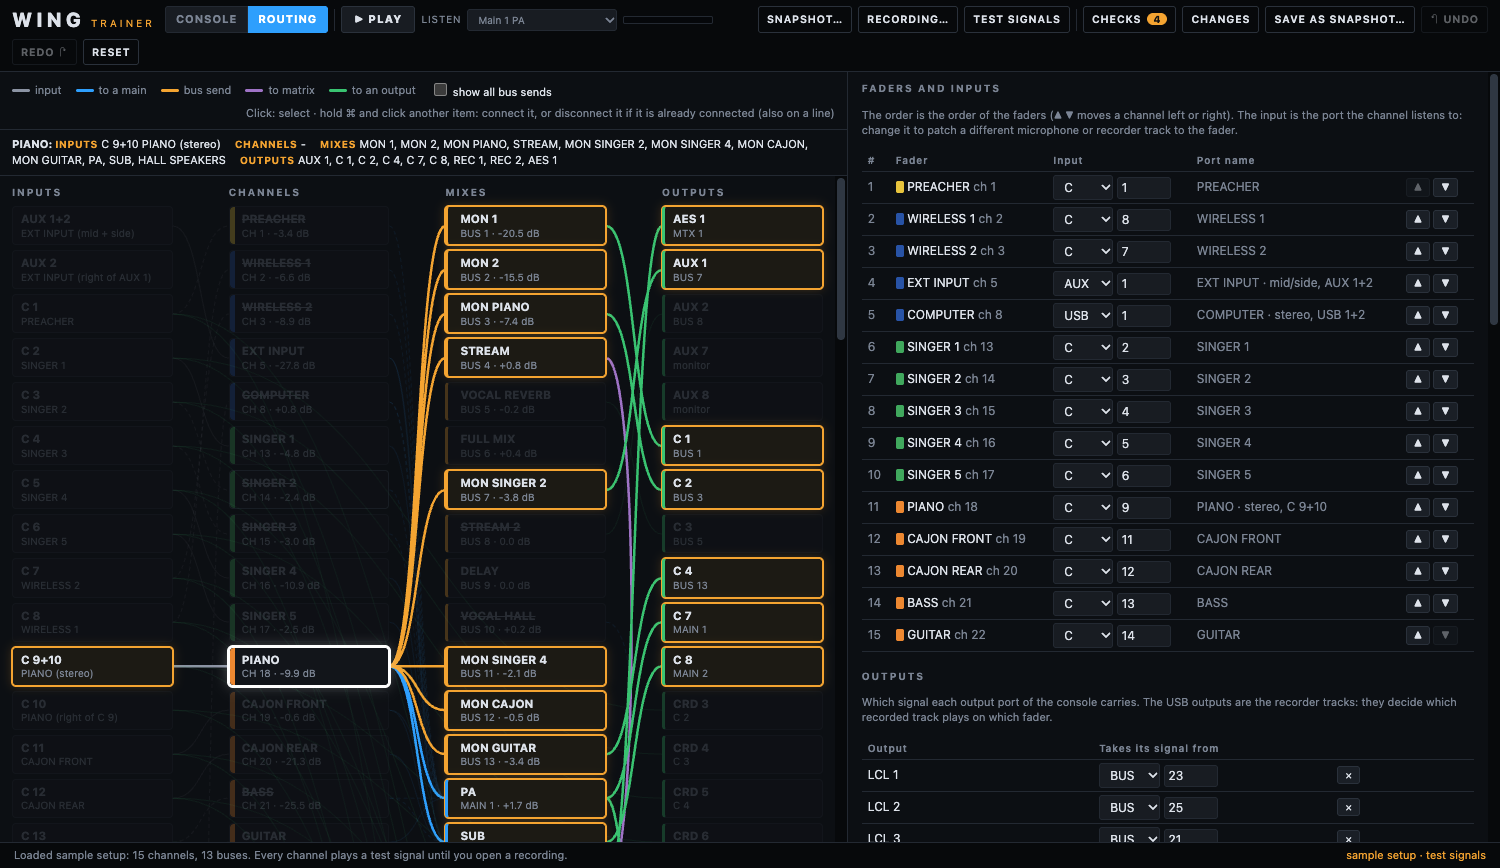
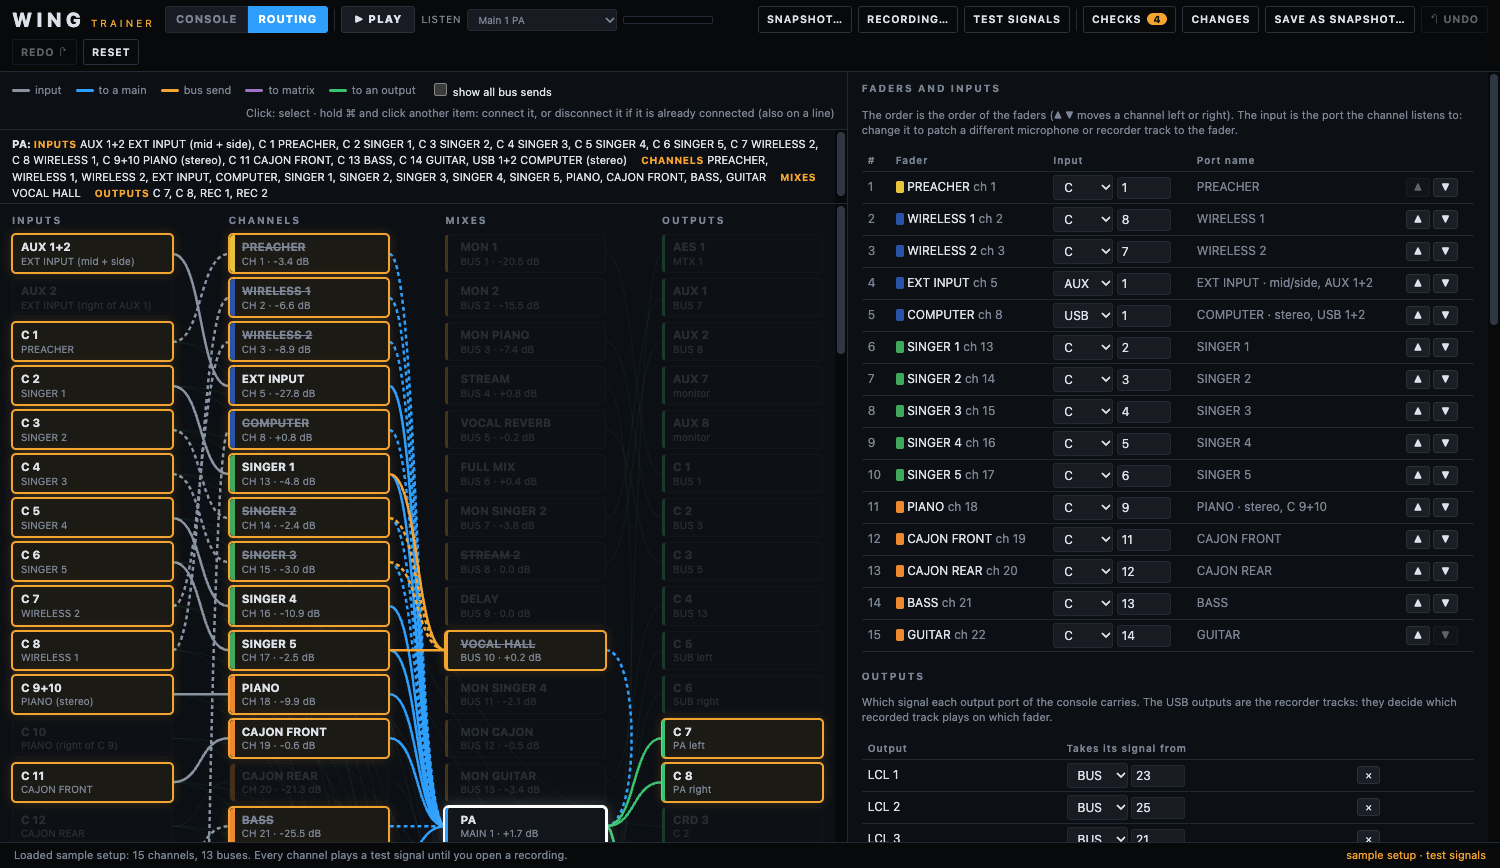
Mains are stereo: the MAIN output sources are the left and right of each main
C 7 <- MAIN 1 and C 8 <- MAIN 2 are the left and right of the PA, not the PA and a second main. The diagram, the output nodes, the Outputs table, the connect gestures and the change list now say so; connecting a main to an output patches its left side to an odd port and its right side to an even port.

diff --git a/src/shared/connect.ts b/src/shared/connect.ts
@@ -1,4 +1,5 @@
 import { buildFlow } from './flow'
+import { mainOfIndex, mainSides, mainSourceName } from './mains'
 import { OFF_DB, type Snapshot } from './model'
 import { setSource } from './snapshot'
 
@@ -103,12 +104,13 @@ export function connect(s: Snapshot, aId: string, bId: string): ConnectResult {
     return { ok: true, message: `${f} now sends to ${t}.` }
   }
   if (to.kind === 'out' && (from.kind === 'main' || from.kind === 'matrix' || from.kind === 'bus' || from.kind === 'in')) {
-    const source = from.kind === 'in' ? { grp: from.grp, in: from.port } : { grp: mixGroup(from), in: from.id }
+    // A main is a left and a right: an odd output port gets its left side and an even port its right side (connect it again to another port for the other side).
+    const source = from.kind === 'in' ? { grp: from.grp, in: from.port } : from.kind === 'main' ? { grp: 'MAIN', in: mainIndexFor(s, from.id, to.port) } : { grp: mixGroup(from), in: from.id }
     const o = s.outputs.find((x) => x.grp === to.grp && x.port === to.port)
-    if (o && o.source.grp === source.grp && o.source.in === source.in) return { ok: false, message: `${t} already carries ${f}.` }
+    if (o && (from.kind === 'main' ? isMainSource(s, o.source, from.id) : o.source.grp === source.grp && o.source.in === source.in)) return { ok: false, message: `${t} already carries ${describeSource(s, o.source)}.` }
     if (o) o.source = source
     else s.outputs.push({ grp: to.grp, port: to.port, source })
-    return { ok: true, message: `${t} now carries ${f}.` }
+    return { ok: true, message: `${t} now carries ${describeSource(s, source)}.` }
   }
   return { ok: false, message: `${f} cannot feed ${t} directly. A channel reaches an output through a main, a bus or a matrix.` }
 }
@@ -151,7 +153,7 @@ export function disconnect(s: Snapshot, aId: string, bId: string): ConnectResult
   }
   if (to.kind === 'out') {
     const source = from.kind === 'in' ? { grp: from.grp, in: from.port } : { grp: mixGroup(from), in: (from as { id: number }).id }
-    const i = s.outputs.findIndex((x) => x.grp === to.grp && x.port === to.port && x.source.grp === source.grp && x.source.in === source.in)
+    const i = s.outputs.findIndex((x) => x.grp === to.grp && x.port === to.port && (from.kind === 'main' ? isMainSource(s, x.source, from.id) : x.source.grp === source.grp && x.source.in === source.in))
     if (i < 0) return not
     s.outputs.splice(i, 1)
     return { ok: true, message: `${t} no longer carries ${f}: it is not patched now.` }
@@ -160,12 +162,30 @@ export function disconnect(s: Snapshot, aId: string, bId: string): ConnectResult
 }
 
 /** The ref of what an output (or anything) is patched to, from a source such as `{ grp: 'BUS', in: 8 }`. */
-function sourceRef(src: { grp: string; in: number }): Ref {
-  if (src.grp === 'MAIN') return { kind: 'main', id: src.in }
+function sourceRef(s: Snapshot, src: { grp: string; in: number }): Ref {
+  // The MAIN group lists the left and right of each main (see mains.ts), so its index is not the main's number.
+  if (src.grp === 'MAIN') return { kind: 'main', id: mainOfIndex(s, src.in)?.main ?? src.in }
   if (src.grp === 'MTX') return { kind: 'matrix', id: src.in }
   if (src.grp === 'BUS') return { kind: 'bus', id: src.in }
   return { kind: 'in', grp: src.grp, port: src.in }
 }
+
+/** What an output's source is, in words: "main PA (left)", "bus STREAM 2", "input C 5". */
+function describeSource(s: Snapshot, src: { grp: string; in: number }): string {
+  if (src.grp === 'MAIN') return `main ${mainSourceName(s, src.in)}`
+  const ref = sourceRef(s, src)
+  return `${ref.kind === 'in' ? 'input' : ref.kind} ${nameOf(s, ref).replace(/^(.+) \(.*\)$/, '$1')}`
+}
+
+/** The entry of the MAIN source group to patch to an output port: an odd port takes the left side and an even port the right side (as in a stereo pair of outputs). */
+function mainIndexFor(s: Snapshot, main: number, port: number): number {
+  const sides = mainSides(s).filter((x) => x.main === main)
+  if (sides.length === 1) return sides[0].index // a mono main
+  return (sides.find((x) => x.side === (port % 2 === 1 ? 'L' : 'R')) ?? sides[0])?.index ?? main
+}
+
+/** Whether an output source is this main (either of its sides). */
+const isMainSource = (s: Snapshot, src: { grp: string; in: number }, main: number): boolean => src.grp === 'MAIN' && mainOfIndex(s, src.in)?.main === main
 
 /**
  * What connecting the two would take away, in words, or null when it only adds: an output that carries something else loses that,
@@ -180,9 +200,8 @@ export function replacement(s: Snapshot, aId: string, bId: string): string | nul
   if (to.kind === 'out' && from.kind !== 'ch') {
     const o = s.outputs.find((x) => x.grp === to.grp && x.port === to.port)
     if (!o) return null
-    const was = nameOf(s, sourceRef(o.source))
-    const kind = o.source.grp === 'MAIN' ? 'main' : o.source.grp === 'MTX' ? 'matrix' : o.source.grp === 'BUS' ? 'bus' : 'input'
-    return `${nameOf(s, to)} carries ${kind} ${was} now. Connecting ${nameOf(s, from)} replaces it: ${was} will no longer go to ${nameOf(s, to)}.`
+    const was = describeSource(s, o.source)
+    return `${nameOf(s, to)} carries ${was} now. Connecting ${nameOf(s, from)} replaces it: ${was} will no longer go to ${nameOf(s, to)}.`
   }
   if (from.kind === 'in' && to.kind === 'ch') {
     const c = s.channels.find((x) => x.id === to.id)

diff --git a/tests/mains.test.ts b/tests/mains.test.ts
@@ -1,0 +1,70 @@
+import { describe, expect, it } from 'vitest'
+import sample from '../fixtures/sample.snap.json'
+import { connect, disconnect, replacement } from '../src/shared/connect'
+import { buildFlow, outId } from '../src/shared/flow'
+import { mainOfIndex, mainSides, mainSourceCount, mainSourceName } from '../src/shared/mains'
+import { parseSnapshot } from '../src/shared/snapshot'
+
+const fresh = () => parseSnapshot(sample)
+
+describe('the MAIN output sources are the sides of the mains', () => {
+  it('lists a left and a right for each stereo main', () => {
+    const s = fresh()
+    expect(s.mainMono).toEqual([false, false, false, false])
+    expect(mainSourceCount(s)).toBe(8)
+    expect(mainOfIndex(s, 1)).toEqual({ index: 1, main: 1, side: 'L' })
+    expect(mainOfIndex(s, 2)).toEqual({ index: 2, main: 1, side: 'R' })
+    expect(mainOfIndex(s, 3)).toEqual({ index: 3, main: 2, side: 'L' })
+    expect(mainOfIndex(s, 4)).toEqual({ index: 4, main: 2, side: 'R' })
+  })
+  it('a mono main is one entry and shifts the next ones', () => {
+    const s = fresh()
+    s.mainMono = [true, false, false, false]
+    expect(mainSides(s).slice(0, 3)).toEqual([{ index: 1, main: 1, side: 'M' }, { index: 2, main: 2, side: 'L' }, { index: 3, main: 2, side: 'R' }])
+  })
+  it('says them in words', () => {
+    const s = fresh()
+    expect(mainSourceName(s, 1)).toBe('PA left')
+    expect(mainSourceName(s, 2)).toBe('PA right')
+    expect(mainSourceName(s, 3)).toBe('SUB left')
+  })
+})
+
+describe('the diagram shows the PA on C 7 and C 8', () => {
+  const flow = buildFlow(fresh())
+  const edge = (from: string, to: string) => flow.edges.find((e) => e.from === from && e.to === to)
+  it('draws main 1 (the PA) to both C 7 and C 8, with the side on the line, and SUB to C 5 and C 6', () => {
+    expect(edge('main:1', outId('C', 7))?.label).toBe('L')
+    expect(edge('main:1', outId('C', 8))?.label).toBe('R')
+    expect(edge('main:2', outId('C', 5))?.label).toBe('L')
+    expect(edge('main:2', outId('C', 6))?.label).toBe('R')
+    expect(edge('main:2', outId('C', 8))).toBeUndefined() // not the PA's right side
+  })
+  it('names the side on the output', () => {
+    const out = (id: string) => flow.nodes.find((n) => n.id === id)!
+    expect(out(outId('C', 7)).sub).toBe('PA left')
+    expect(out(outId('C', 8)).sub).toBe('PA right')
+    expect(out(outId('REC', 1)).sub).toBe('PA left')
+  })
+})
+
+describe('connecting a main to an output', () => {
+  it('patches the left side to an odd port and the right side to an even port', () => {
+    const s = fresh()
+    expect(connect(s, 'main:1', 'out:AUX:5')).toMatchObject({ ok: true, message: expect.stringContaining('PA left') })
+    expect(s.outputs.find((o) => o.grp === 'AUX' && o.port === 5)!.source).toEqual({ grp: 'MAIN', in: 1 })
+    expect(connect(s, 'main:1', 'out:AUX:6').message).toContain('PA right')
+    expect(s.outputs.find((o) => o.grp === 'AUX' && o.port === 6)!.source).toEqual({ grp: 'MAIN', in: 2 })
+    expect(connect(s, 'main:2', 'out:AUX:4').message).toContain('SUB right')
+  })
+  it('knows that C 8 carries the PA already, and disconnects the right side', () => {
+    const s = fresh()
+    expect(connect(s, 'main:1', 'out:C:8')).toMatchObject({ ok: false, message: expect.stringContaining('already carries main PA right') })
+    expect(disconnect(s, 'main:1', 'out:C:8').ok).toBe(true)
+    expect(s.outputs.some((o) => o.grp === 'C' && o.port === 8)).toBe(false)
+  })
+  it('the warning says which side would be lost', () => {
+    const s = fresh()
+    expect(replacement(s, 'main:2', 'out:C:8')).toMatch(/output C 8 carries main PA right now.*PA right will no longer go to output C 8/)
+  })
+})

diff --git a/src/renderer/routing.ts b/src/renderer/routing.ts
@@ -1,4 +1,5 @@
 import { replacement, toggleConnection } from '../shared/connect'
+import { mainSourceCount, mainSourceName } from '../shared/mains'
 import { buildFlow, trace, type FlowEdge, type FlowNode } from '../shared/flow'
 import { setSource } from '../shared/snapshot'
 import { INPUT_GROUPS, INPUT_PORTS, OUTPUT_GROUPS, OUTPUT_SOURCES, type Snapshot } from '../shared/model'
@@ -181,7 +182,7 @@ export function createRouting(root: HTMLElement, deps: RoutingDeps) {
     return n
   }
   const inputMax = (grp: string): number => INPUT_PORTS[grp] ?? 48
-  const sourceMax = (grp: string): number => (grp === 'MAIN' ? 4 : grp === 'MTX' ? 8 : grp === 'BUS' ? 25 : grp === 'MON' ? 2 : inputMax(grp))
+  const sourceMax = (grp: string): number => (grp === 'MAIN' ? mainSourceCount(deps.snap()) : grp === 'MTX' ? 8 : grp === 'BUS' ? 25 : grp === 'MON' ? 2 : inputMax(grp))
 
   function fadersTable(): HTMLElement {
     const snap = deps.snap()
@@ -211,7 +212,7 @@ export function createRouting(root: HTMLElement, deps: RoutingDeps) {
       const set = (grp: string, n: number): void => { o.source = { grp, in: n }; changed() }
       const remove = el<HTMLButtonElement>('button', { class: 'mini', textContent: '×', title: 'Unpatch this output', onclick: () => { snap.outputs.splice(snap.outputs.indexOf(o), 1); changed() } })
       return el('tr', {}, el('td', { textContent: `${o.grp} ${o.port}` }),
-        el('td', {}, select(OUTPUT_SOURCES.filter((g) => g !== 'OFF'), o.source.grp, `Source group of output ${o.grp} ${o.port}`, (v) => set(v, Math.min(o.source.in, sourceMax(v)))), ' ', numberBox(o.source.in, sourceMax(o.source.grp), `Source number of output ${o.grp} ${o.port}`, (v) => set(o.source.grp, v))),
+        el('td', {}, select(OUTPUT_SOURCES.filter((g) => g !== 'OFF'), o.source.grp, `Source group of output ${o.grp} ${o.port}`, (v) => set(v, Math.min(o.source.in, sourceMax(v)))), ' ', numberBox(o.source.in, sourceMax(o.source.grp), `Source number of output ${o.grp} ${o.port}`, (v) => set(o.source.grp, v)), ...(o.source.grp === 'MAIN' ? [el('span', { class: 'dim', textContent: ` ${mainSourceName(snap, o.source.in)}` })] : [])),
         el('td', {}, remove))
     })
     // A new patch

diff --git a/src/shared/mains.ts b/src/shared/mains.ts
@@ -1,0 +1,33 @@
+import type { Snapshot } from './model'
+
+/**
+ * A main is a stereo pair of signals. In the output patch the source group MAIN lists them one after the other: 1 is the left of main 1,
+ * 2 its right, 3 the left of main 2, 4 its right, and so on (a mono main is one entry). So `C 7 <- MAIN 1` and `C 8 <- MAIN 2` is the
+ * left and the right of the PA, not the PA and a second main. (WING Quick Start Guide: "select MAIN ... assign 1L to output 7 and 1R to output 8".)
+ */
+export interface MainSide { index: number; main: number; side: 'L' | 'R' | 'M' }
+
+export function mainSides(s: Pick<Snapshot, 'mainMono'>): MainSide[] {
+  const out: MainSide[] = []
+  for (let main = 1; main <= 4; main++) {
+    if (s.mainMono?.[main - 1]) out.push({ index: out.length + 1, main, side: 'M' })
+    else { out.push({ index: out.length + 1, main, side: 'L' }); out.push({ index: out.length + 1, main, side: 'R' }) }
+  }
+  return out
+}
+
+/** Which main, and which side of it, an index of the MAIN source group is. */
+export const mainOfIndex = (s: Pick<Snapshot, 'mainMono'>, index: number): MainSide | null => mainSides(s).find((m) => m.index === index) ?? null
+
+/** How many entries the MAIN source group has. */
+export const mainSourceCount = (s: Pick<Snapshot, 'mainMono'>): number => mainSides(s).length
+
+const WORD = { L: 'left', R: 'right', M: '' } as const
+
+/** "PA left", "SUB right", "PA" for a mono main: what a MAIN source index is, in words. */
+export function mainSourceName(s: Pick<Snapshot, 'mainMono' | 'mains'>, index: number): string {
+  const m = mainOfIndex(s, index)
+  if (!m) return `MAIN ${index}`
+  const name = s.mains.find((x) => x.id === m.main)?.name || `main ${m.main}`
+  return `${name}${WORD[m.side] ? ` ${WORD[m.side]}` : ''}`
+}

diff --git a/src/shared/flow.ts b/src/shared/flow.ts
@@ -1,3 +1,4 @@
+import { mainOfIndex, mainSourceName } from './mains'
 import { OFF_DB, type Snapshot } from './model'
 
 export type NodeKind = 'in' | 'ch' | 'bus' | 'main' | 'matrix' | 'out'
@@ -81,13 +82,21 @@ export function buildFlow(s: Snapshot): { nodes: FlowNode[]; edges: FlowEdge[] }
     const label = `${o.grp} ${o.port}`
     const src = o.source
     let from: string | null = null
-    if (src.grp === 'MAIN') from = `main:${src.in}`
+    let said = `${src.grp} ${src.in}`
+    let side = ''
+    if (src.grp === 'MAIN') {
+      // The MAIN group lists the left and the right of each main: 1 is main 1 left, 2 is main 1 right, 3 is main 2 left ...
+      const m = mainOfIndex(s, src.in)
+      from = m ? `main:${m.main}` : null
+      said = mainSourceName(s, src.in)
+      side = m?.side === 'L' ? 'L' : m?.side === 'R' ? 'R' : ''
+    }
     else if (src.grp === 'MTX') from = `matrix:${src.in}`
     else if (src.grp === 'BUS') from = `bus:${src.in}`
     else if (src.grp !== 'MON') from = inputNode(src.grp, src.in) // an input passed straight through (the USB and card recorders)
     if (from && !nodes.has(from)) continue // patched to something the snapshot does not name
-    add({ id, kind: 'out', label, sub: src.grp === 'MON' ? 'monitor' : `${src.grp} ${src.in}`, color: 0, muted: false })
-    if (from) edges.push({ from, to: id, kind: 'patch', label: '', muted: false })
+    add({ id, kind: 'out', label, sub: src.grp === 'MON' ? 'monitor' : said, color: 0, muted: false })
+    if (from) edges.push({ from, to: id, kind: 'patch', label: side, muted: false })
   }
 
   return { nodes: [...nodes.values()], edges }

diff --git a/src/shared/snapshot.ts b/src/shared/snapshot.ts
@@ -115,6 +115,7 @@ export function setSource(s: Pick<Snapshot, 'inputs'>, c: { source: Source; hasS
 
 export function ensureModel(s: Snapshot): Snapshot {
   s.inputs ??= []
+  s.mainMono ??= [false, false, false, false]
   s.outputs ??= []
   s.matrices ??= []
   for (const m of s.mains) m.matrix ??= []
@@ -142,7 +143,8 @@ export function parseSnapshot(raw: unknown): Snapshot {
     numbered(ports).map(([port, p]): InputPort => ({ grp, port, name: str(p.name), gain: num(p.g, 0), phantom: bool(p.vph), mode: str(p.mode, 'M') })).filter((x) => x.name !== ''))
   const outputs: OutputPatch[] = Object.entries(obj(io.out)).flatMap(([grp, ports]) =>
     numbered(ports).map(([port, x]): OutputPatch => ({ grp, port, source: { grp: str(x.grp, 'OFF'), in: num(x.in, 1) } })).filter((x) => x.source.grp !== 'OFF' && x.source.grp !== ''))
-  const snap: Snapshot = { created: str(root.created), firmware: str(root.creator_fw), channels, buses, mains, matrices, inputs, outputs }
+  const mainMono = [1, 2, 3, 4].map((i) => bool(obj(obj(ae.main)[String(i)]).busmono))
+  const snap: Snapshot = { created: str(root.created), firmware: str(root.creator_fw), channels, buses, mains, matrices, mainMono, inputs, outputs }
   for (const c of snap.channels) c.stereo = stereoOf(snap, c.hasSource ? c.source : null)
   return snap
 }

diff --git a/src/shared/diff.ts b/src/shared/diff.ts
@@ -1,3 +1,4 @@
+import { mainSourceName } from './mains'
 import { OFF_DB, type Bus, type Channel, type Main, type Matrix, type Snapshot } from './model'
 
 export interface Change {
@@ -71,7 +72,11 @@ export function diffSnapshots(base: Snapshot, now: Snapshot): Change[] {
     if (was) out.push(...compare(`Main ${m.id} ${m.name}`, mainValues(was), mainValues(m)))
   }
   // Output patching: every output that is patched in either snapshot.
-  const patchOf = (s: Snapshot, grp: string, port: number): string => { const o = s.outputs.find((x) => x.grp === grp && x.port === port); return o ? `${o.source.grp} ${o.source.in}` : 'off' }
+  const patchOf = (s: Snapshot, grp: string, port: number): string => {
+    const o = s.outputs.find((x) => x.grp === grp && x.port === port)
+    if (!o) return 'off'
+    return o.source.grp === 'MAIN' ? `${o.source.grp} ${o.source.in} (${mainSourceName(s, o.source.in)})` : `${o.source.grp} ${o.source.in}`
+  }
   const outputs = new Set([...base.outputs, ...now.outputs].map((o) => `${o.grp}:${o.port}`))
   for (const key of outputs) {
     const [grp, port] = key.split(':')

diff --git a/tests/connect.test.ts b/tests/connect.test.ts
@@ -50,8 +50,8 @@ describe('connect', () => {
 
   it('patches an output to a mix or an input, replacing what it carried', () => {
     const s = fresh()
-    expect(connect(s, 'main:2', 'out:C:7').ok).toBe(true)
-    expect(s.outputs.find((o) => o.grp === 'C' && o.port === 7)!.source).toEqual({ grp: 'MAIN', in: 2 })
+    expect(connect(s, 'main:2', 'out:C:7').ok).toBe(true) // C 7 is an odd port: SUB's left side
+    expect(s.outputs.find((o) => o.grp === 'C' && o.port === 7)!.source).toEqual({ grp: 'MAIN', in: 3 })
     expect(connect(s, 'in:C:5', 'out:AUX:5').ok).toBe(true)
     expect(s.outputs.find((o) => o.grp === 'AUX' && o.port === 5)!.source).toEqual({ grp: 'C', in: 5 })
   })

diff --git a/tests/diff.test.ts b/tests/diff.test.ts
@@ -12,7 +12,7 @@ describe('diffSnapshots of the routing', () => {
     now.outputs.push({ grp: 'AUX', port: 5, source: { grp: 'BUS', in: 4 } })
     const changes = diffSnapshots(base, now).map(describeChange)
     expect(changes).toContain('Ch 13 SINGER 1: Input C 2 -> C 5')
-    expect(changes).toContain('Output C 7: Source MAIN 1 -> MAIN 2')
+    expect(changes).toContain('Output C 7: Source MAIN 1 (PA left) -> MAIN 2 (PA right)')
     expect(changes).toContain('Output AUX 5: Source off -> BUS 4')
   })
 })

diff --git a/src/shared/model.ts b/src/shared/model.ts
@@ -126,6 +126,8 @@ export interface Snapshot {
   buses: Bus[]
   mains: Main[]
   matrices: Matrix[]
+  /** For each of the four mains (index 0 = main 1): whether it is mono. A stereo main is two signals in the output patch, a left and a right. */
+  mainMono: boolean[]
   /** Input ports that have a name in the snapshot. */
   inputs: InputPort[]
   /** The patched outputs (those set to OFF are left out). */

diff --git a/docs/whats-inside.md b/docs/whats-inside.md
@@ -87,6 +87,10 @@ When the routing is edited in the Routing tab, this is done again, so a track fo
 
 The screen keeps a history of JSON states (the edited snapshot and the order of the faders). Every edit comes through `persist()`, which also arms a half-second timer; when it fires and the state differs from the current step, it becomes a new step (so a drag is one step), and a new step drops the redo steps after it. ⌘Z or Ctrl+Z and ⌘⇧Z, Ctrl+Shift+Z or Ctrl+Y (ignored in text boxes and while a dialog is open) move along the history: the strips, the panel and the Routing tab are made again from the state, and the audio graph is rebuilt only if the structure changed (channels, buses, matrices, send taps), otherwise just the values are applied. An edit that has not settled is committed first, so undo never skips it. Selection and tabs are not part of a step.
 
+## Mains in the output patch
+
+`mains.ts`: the MAIN source group lists the sides of the mains one after the other (a stereo main is a left and a right, a mono main one entry; `Snapshot.mainMono` comes from the file's `busmono`). `mainOfIndex` says which main and side an index is, and the diagram, the connect gestures, the Outputs table and the change list all go through it, so `C 7 <- MAIN 1` and `C 8 <- MAIN 2` are the left and right of the PA. The export still writes the raw index.
+
 ## Connections in the diagram
 
 `connect.ts` turns a pair of diagram nodes into a change of the snapshot (`connect`) or its opposite (`disconnect`): a channel takes an input port, a channel or bus is assigned to a main, a channel sends to a bus, a bus sends to a matrix, an output carries a main, bus, matrix or input. The pair can be named in either order (it works out which one feeds the other); things of the same kind, and pairs that cannot be connected directly, are refused with a message. `replacement` says in words what a connection would take away (an output's old source, a channel's old input) without changing anything, and the screen asks first. `toggleConnection` is the one gesture: if a line is drawn between the two (`isConnected`, from the flow graph) it disconnects them, otherwise it connects them. `routing.ts` calls it for ⌘-click (Ctrl on Windows and Linux) on another node and on a line (each line has a wide invisible copy to click). Making the view again keeps the scroll of both sides and the box that was in use, so a change in a table does not jump to the top.

diff --git a/docs/user-guide.md b/docs/user-guide.md
@@ -79,6 +79,14 @@ A channel can listen to a **stereo pair** of input ports instead of one mono por
 
 Not simulated: the stereo **width** of a channel (it is read but not applied).
 
+## Mains are stereo: the PA is C 7 and C 8
+
+A main is a **stereo pair**, a left and a right. In the output patch the source group **MAIN** therefore lists the sides, not the mains: `MAIN 1` is the **left** of main 1, `MAIN 2` its **right**, `MAIN 3` the left of main 2, `MAIN 4` its right, and so on. In the sample, `C 7 <- MAIN 1` and `C 8 <- MAIN 2` are the **left and right of the PA** (main 1), and `C 5` and `C 6` are the left and right of **SUB** (main 2). The recorder tracks `REC 1` and `REC 2` are the PA's left and right too.
+
+The trainer shows it that way: in the Routing tab the PA has a line to `C 7` (marked **L**) and one to `C 8` (marked **R**), the output nodes say `PA left` and `PA right`, the Outputs table writes `PA left` beside a MAIN source, and Changes says `MAIN 1 (PA left)`. (The WING Quick Start Guide describes it as selecting MAIN and assigning `1L` to output 7 and `1R` to output 8.)
+
+**Connecting a main to an output** with ⌘-click patches the **left side to an odd port** and the **right side to an even port** (C 7 gets the PA's left, C 8 its right); connect the PA to the other port as well to get both sides. A mono main is one entry. The sound is not affected (outputs are not simulated, mains are heard as a stereo pair).
+
 ## Buses and matrices: add, rename, remove
 
 Press **BUSES** (next to CHANNELS) to see the buses. The console has 16 buses and 8 matrices; the sample uses 13 and 1.
